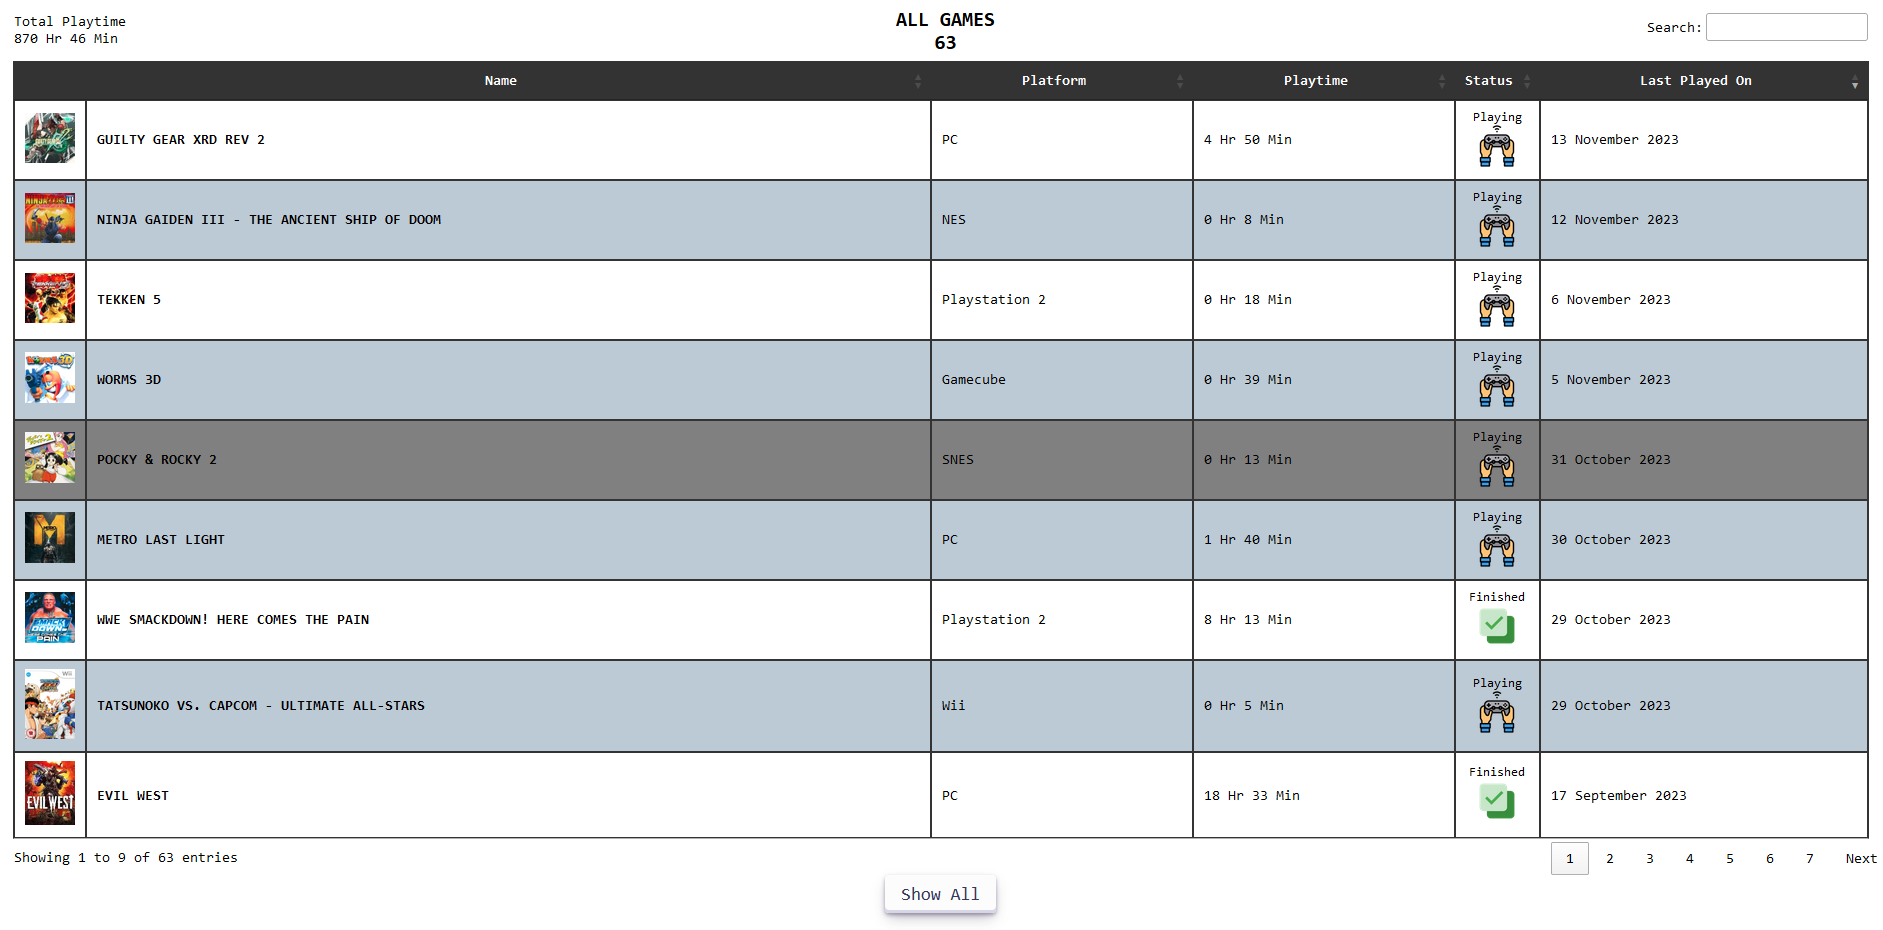
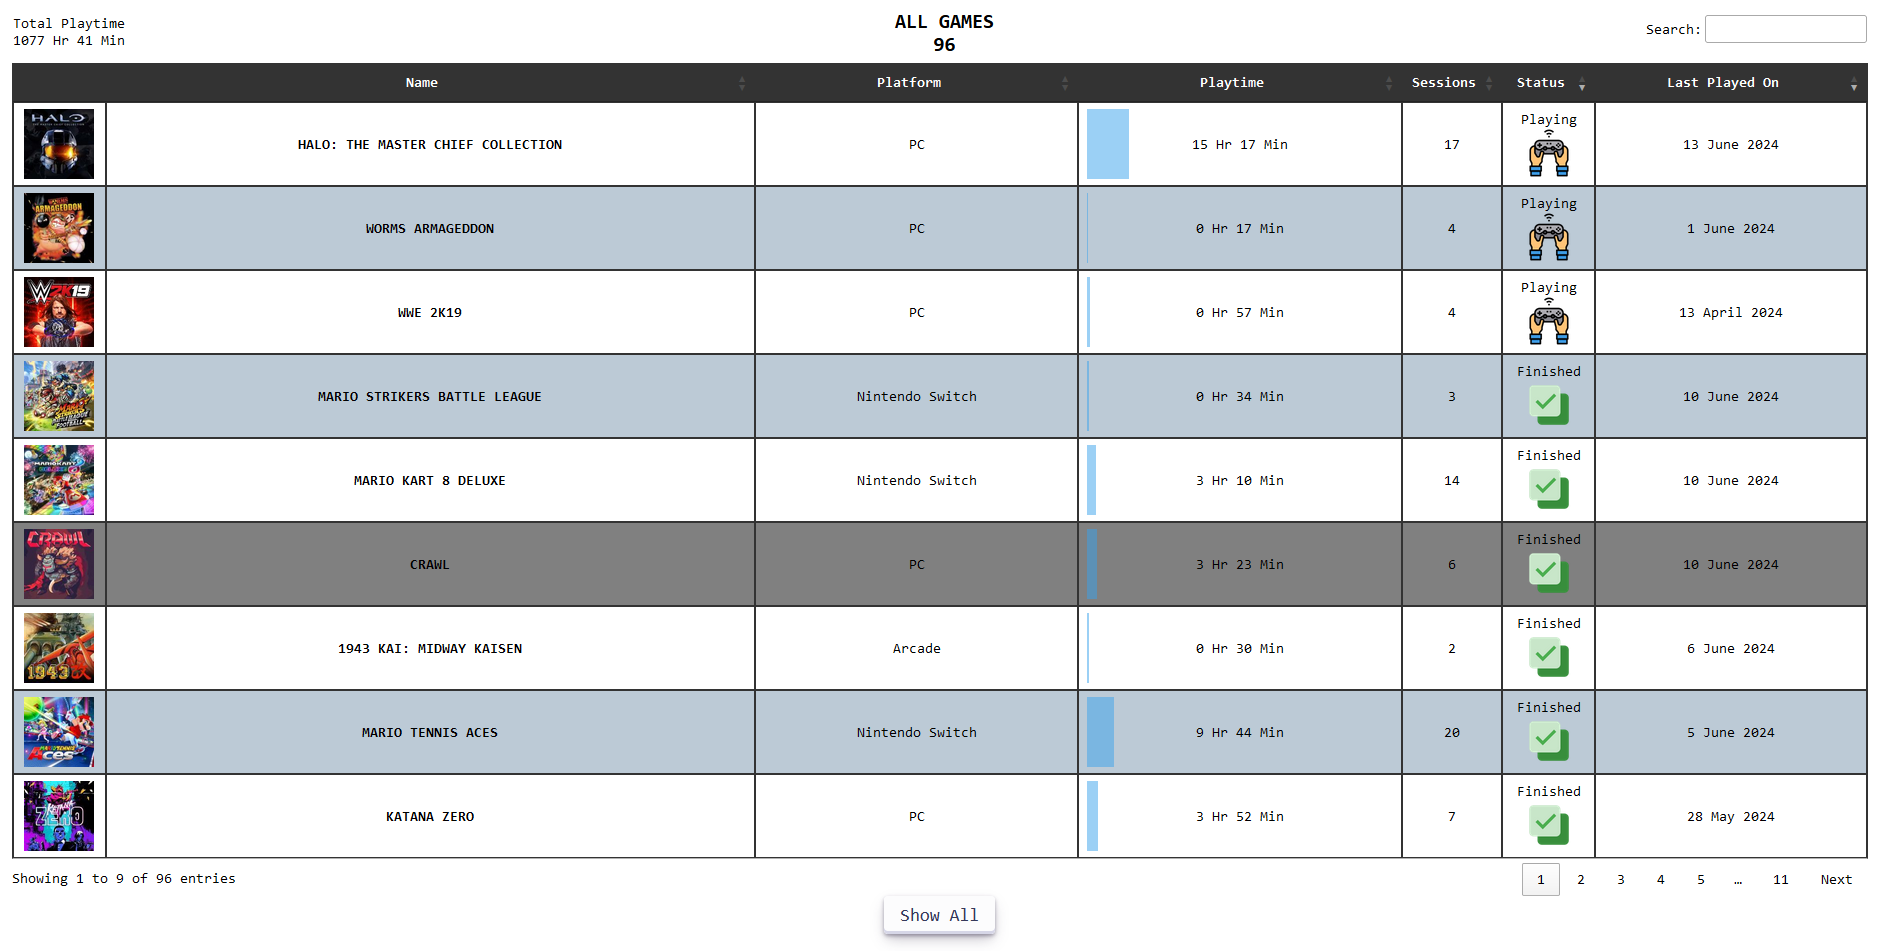
Update readme to reflect new features

diff --git a/Readme.md b/Readme.md
@@ -18,27 +18,39 @@ A simple windows system tray application written in powershell to track your gam
     - Tracks runtime for any PC or emulated game.
     - Automatically track all new emulated games by just registering the emulator only once.
     - Retroarch supported. Track different retroarch cores as distinct emulated platforms.
+    - Supports tracking for multiple emulators for single console. e.g. Ryjinx and Yuzu for Switch.
+    - Idle time tracking based on absence of user input from KB/M or Gamepads. Removes idle time from play time for accurate playtime measurements.
+    - Tracks number of sessions per game.
     - Works best with command line based emulation frontends like EmulationStation, LaunchBox and other standalone emulators. 
-    - Stop or resume tracking anytime without exiting the app.
+    - Pause or resume tracking anytime without exiting the app.
     - HWiNFO64 Sensor. Track game time recording status in RTSS / HWiNFO overlays.
 - #### UI and Statistics
-    - Detailed Games list UI with search and sorting. Editable game icons. Games can be marked finished for backlog records.
+    - Fast HTML based UI rendered using your default browser. Take screenshots/print pdfs to share with friends from your browser.
+    - Quick view, 5 most recent in progress / finished games with total playtime and last played dates.
+    - Detailed Games list UI with search and sorting. Editable game icons. Relative play time comparison bar for each game.
+    - Quick google image search button for finding game icons / box art.
+    - Games can be marked finished / in progress for backlog records.
+    - Lifetime gaming summary graph showing playtime vs session count of each game. Total play time, idle time, in progress and finished games.
+    - Daily, Monthly and Yearly play time statstics with highlighted weekends.
     - Shows most played games and number of games played per platform.
-    - Daily, Monthly and Yearly play time statstics.
+    - PC vs Emulation time.
 - #### Quality of Life Features
-    - Extremely lightweight. 7 MB install size. Single process. Uses less than 50 MB Memory and less than 1% CPU.
+    - Extremely lightweight. ~7 MB install size. Single process with very low resource usage.
     - Completely offline and portable. No internet required. All data stored locally.
     - Automated data backup on every gaming session. Keeps 5 latest backups.
-    - Automated scheduled task setup on install to run at startup and start tracking.
     - Detailed how to use manual. Just click Help from menu.
     - Detailed logging to identify bugs and errors.
 
 ## Feature Screenshots
-<img src="./readme-files/GamesList.png" width="320" height="180"> <img src="./readme-files/MostPlayedGames.png" width="320" height="180"> 
+<img src="./readme-files/GamesList.png" width="320" height="180"> <img src="./readme-files/LifeTimeSummary.png" width="320" height="180">  
 
 <img src="./readme-files/TimeSpentGamingMonthly.png" width="320" height="180"> <img src="./readme-files/TimeSpentGamingYearly.png" width="320" height="180"> 
 
-<img src="./readme-files/GamesPlayedPerPlatform.png" width="180" height="190">  <img src="./readme-files/HWiNFOSensor.png" width="450" height="190">
+<img src="./readme-files/MostPlayedGames.png" width="320" height="180"> <img src="./readme-files/IdleTime.png" width="320" height="180">
+
+<img src="./readme-files/QuickView.png" width="190" height="190"> <img src="./readme-files/GamesPlayedPerPlatform.png" width="180" height="190"> <img src="./readme-files/PCVsEmulationTime.png" width="180" height="190"> 
+
+<img src="./readme-files/HWiNFOSensor.png" width="450" height="190">
 
 ## Feature Demos
 - [Tracking PC Games](https://youtu.be/QHVJvWrDWC4)
@@ -56,26 +68,26 @@ Biggest feature though are the stastics that it generates from your data. The la
 - *Did you play enough games / enough hours since you bought that new PC to justify it's cost?*
 - *You setup such complex emulation setup, how many emulated games you actually played?*
 
-Id adds value to your gaming hobby by gathering data quietly in background and then making it super easy for you to draw conclusions and bring changes.
+It adds value to your gaming hobby by gathering data quietly in background and then making it super easy for you to draw conclusions and bring changes.
 
 ## How to install
-1. Download ***GamingGaiden.zip*** from the [latest release](https://github.com/kulvind3r/GamingGaiden/releases/latest).
-2. Extract "GamingGaiden" folder and copy it to a location where you would like to run it from. 
-
 ***DO NOT USE ANY FOLDER ON OS DRIVE i.e. "C:/" OR ANY OTHER FOLDER THAT NEEDS ADMIN ACCESS.***
+1. Download ***GamingGaiden.zip*** from the [latest release](https://github.com/kulvind3r/GamingGaiden/releases/latest).
+2. Extract "GamingGaiden" folder and copy it to a location where you would like to run it from.
+3. Run `Install.bat`.
+4. Use the created shortcuts for launching the application. If you answered 'y | yes' for setting up autostart, application will also start at boot. 
 
-3. Right click `Install.bat` and click `Run as administrator`.
-4. Optionally choose to setup a scheduled task to autostart at user login.
-5. Once installation is done, you will have a shortcut to run the application on desktop and start menu. Just double click the shortcut to start the application.
-6. _**On Starting from Shortcut, a brief command line window flashes and then the application runs in the System Tray. It is Tray app. It has no GUI window. All Operations are done from right click menu of tray app. All Lists, Graphs, Stastics will be shown in your default internet browser.**_ Please watch the youtube tutorials shared above to learn how to use the application.
-7. If you move the application to another directory, simply run `Install.bat` once again as administrator, to setup from the new location.
+## How to upgrade from exisitng installation
+***MAKE A BACKUP OF YOUR GamingGaide.db DATABASE AND THE backups FOLDER IN A SEPARATE LOCATION BEFORE PROCEEDING. YOU HAVE BEEN WARNED.***
+1. Download ***GamingGaiden.zip*** from the [latest release](https://github.com/kulvind3r/GamingGaiden/releases/latest).
+2. Keep your database (i.e. ***GamingGaiden.db***) and the ***backups*** folder but delete all the other files from existing installation directory.
+3. Copy all the files inside the "GamingGaiden" folder in the zip to the existing installation directory.
+3. Run `Install.bat`.
 
 ## DISCLAIMER
-1. `Install.bat` needs to be run as administrator to create the scheduled task for starting automatically on system startup.
-2. All shortcuts and scheduled tasks will include the parameter `-ExecutionPolicy bypass` so that powershell scripts can be run. Windows by default doesn't allow powershell scripts to be executed.
+All shortcuts will include the parameter `-ExecutionPolicy bypass` so that powershell scripts can be run. Windows by default doesn't allow powershell scripts to be executed.
 
 ## Attributions
-
 Made with love using 
 
 - [PSSQLite](https://www.powershellgallery.com/packages/PSSQLite) by [Warren Frame](https://github.com/RamblingCookieMonster)
@@ -88,11 +100,6 @@ Made with love using
 - [Ninja Garden Font](https://www.fontspace.com/ninja-garden-font-f32923) by [Iconian Fonts](https://www.fontspace.com/iconian-fonts)
 
 ## Raising Bugs
+Read the included manual and installation steps mentioned above carefully before raising issues. Check carefully if you didn't follow anything as instructed. You might be able to solve your issue without needing help.
 
-***Read the included manual first before raising issues. You might be able to solve it without needing help.***
-
-As a single dev, i have tested the application to best of my ability before making it public. However a large number of users is the first rigrous QA process the application is going to get. Bugs that i missed are bound to be found so kindly be patient. Bug reports in current feature set are welcome. Please share.
-
-I will try my best to fix bugs that are valid for the current set of features. If a bug report looks more like a new feature being requested instead of something broken in existing features. I may chose not to work on that. I believe the application is feature complete for what it is trying to do and i don't plan to add any additional features for most part.
-
-I would much rather actually play games than keep on developing this.
+As a solo dev, I will try my best to provide support/fixes for any genuine bugs in existing features based on time availability. No new feature requests please.
